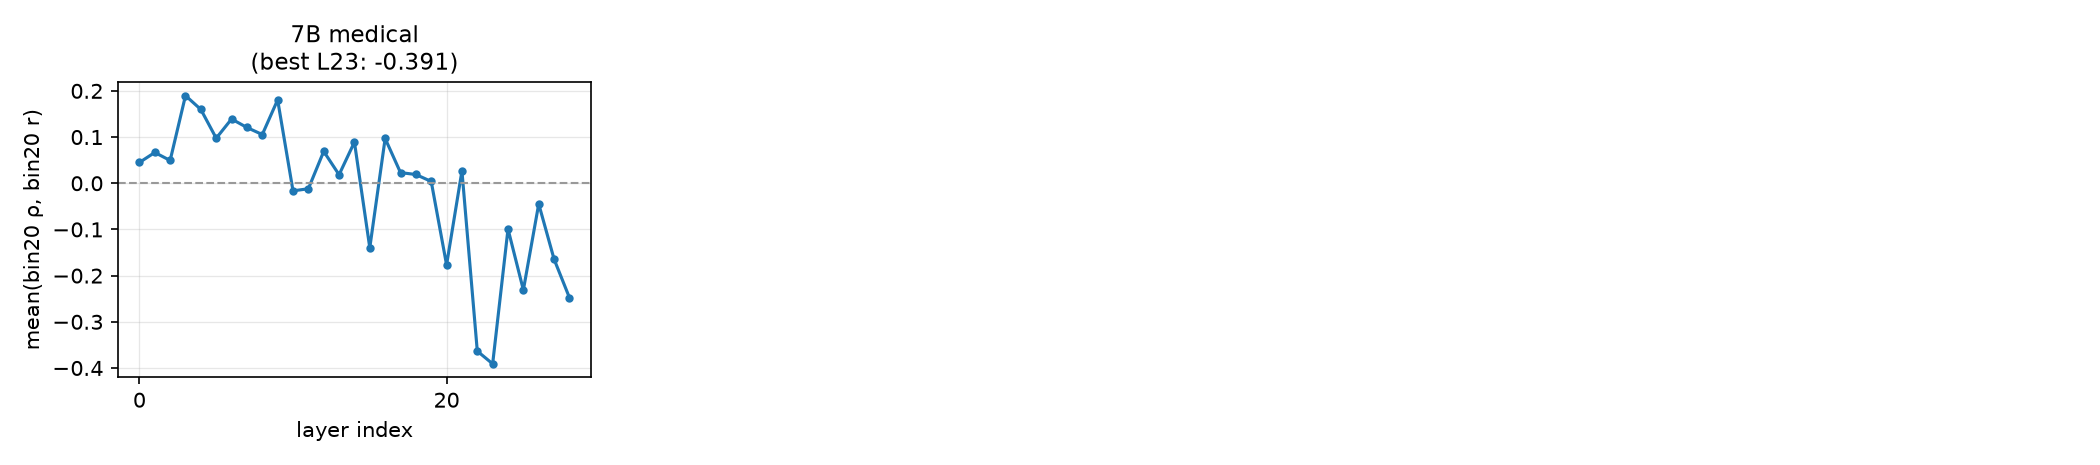
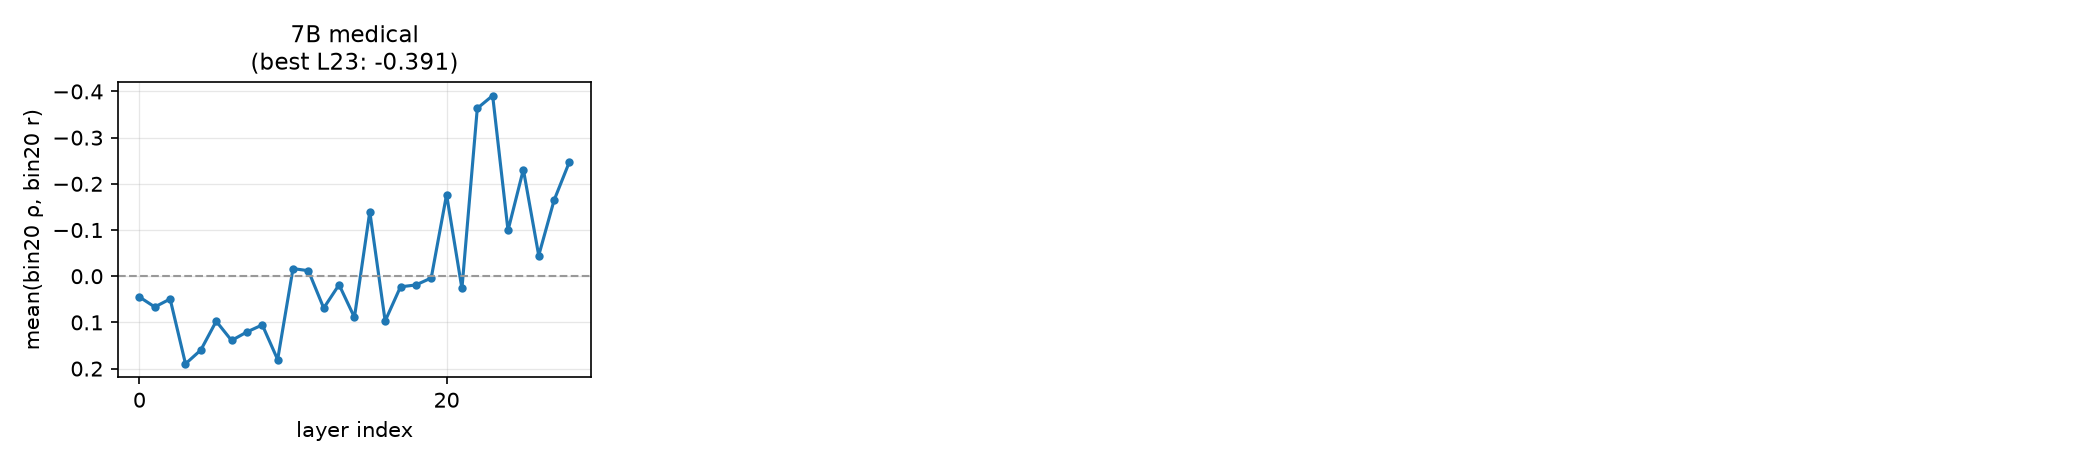
Invert Figure 3 y-axis to match original (stronger correlation reads upward, zero line at bottom)

diff --git a/scripts/plot_figure3.py b/scripts/plot_figure3.py
@@ -80,6 +80,9 @@ def main():
         ax.plot(layers, p["vals"], color=LINE_COLOR, lw=1.5,
                 marker=".", ms=6)
         ax.axhline(0.0, ls="--", color="0.6", lw=1.0)
+        # Paper inverts the y-axis: stronger (more negative) correlation is UP,
+        # zero line sits at the bottom.
+        ax.invert_yaxis()
         ax.set_title(f"{p['title']}\n(best L{p['best_layer']}: {p['best']:.3f})",
                      fontsize=11)
         ax.grid(True, alpha=0.3, lw=0.6)
